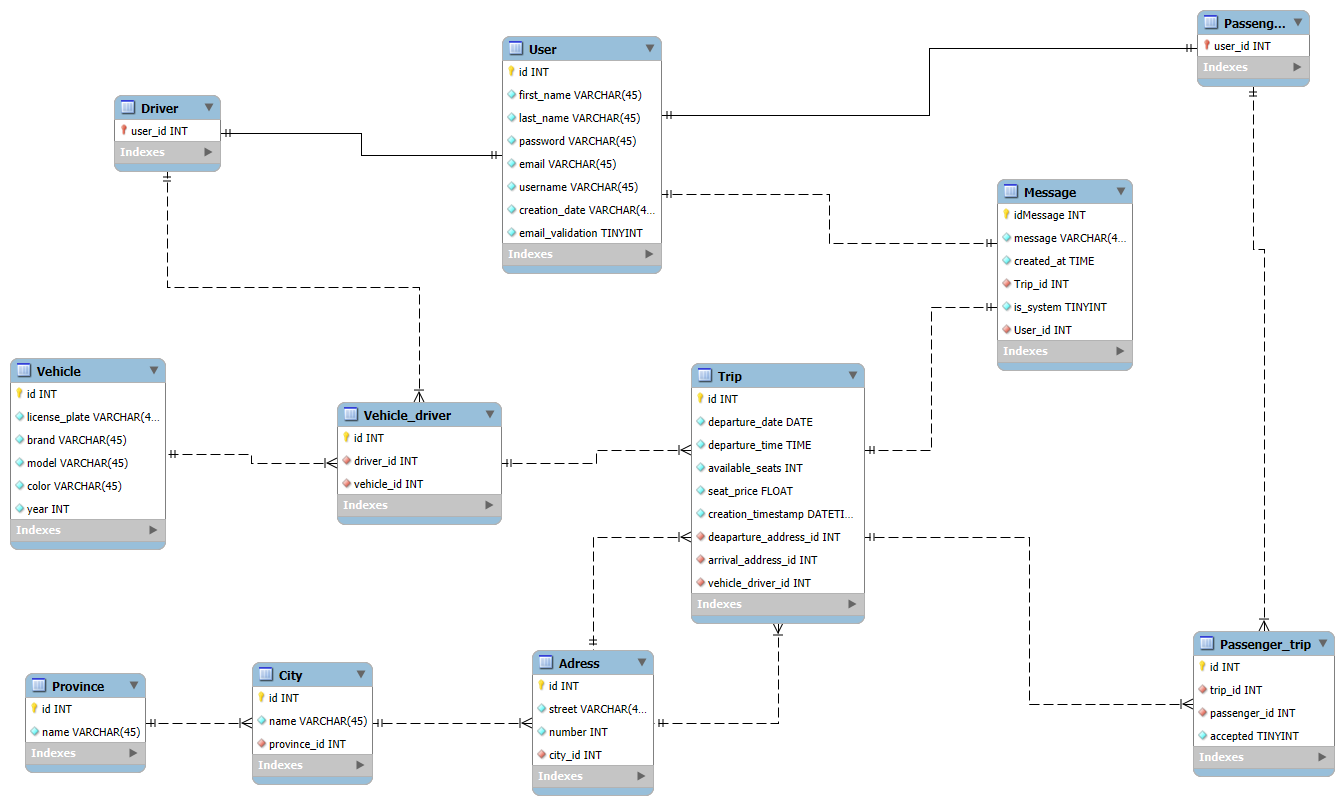
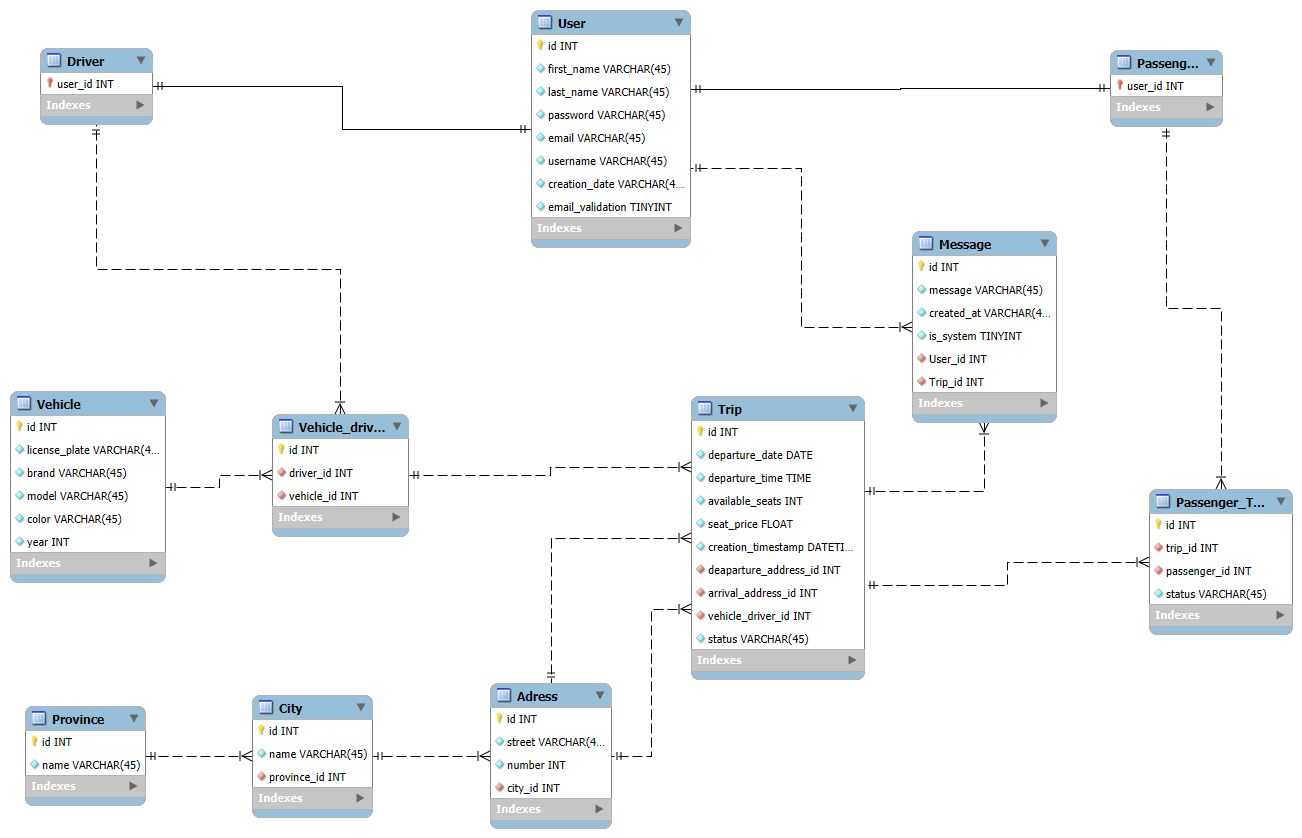
nuevo DER, get_trips funcional

diff --git a/server/models/passenger_trip.py b/server/models/passenger_trip.py
@@ -6,27 +6,27 @@ class passengerTrip(db.Model):
     __tablename__ = 'Passenger_Trip'
     
     id = db.Column(db.Integer, primary_key=True)
-    passenger_id = db.Column(db.Integer, db.ForeignKey('Passenger.user_id'), nullable=False)
     trip_id = db.Column(db.Integer, db.ForeignKey('Trip.id'), nullable=False)
-    accepted = db.Column(db.Boolean, default=False)
+    passenger_id = db.Column(db.Integer, db.ForeignKey('Passenger.user_id'), nullable=False)
+    status = db.Column(db.String(50), nullable=False, default="pending")
 
     passenger = db.relationship('Passenger', backref='passenger_trip')
     trip = db.relationship('Trip', backref='passenger_trip')
 
     def accept(self):
         self.accepted = "accepted"
+        self.trip.available_seats -= 1
 
     def reject(self):
-        self._status = "rejected"
+        self.status = "rejected"
 
     def cancel(self):
-        self._status = "cancelled"
-        self._trip._available_seats += 1
+        self.status = "cancelled"
 
     def to_dict(self):
         return {
             'id': self.id,
             'passenger': self.passenger.to_dict(),
-            'trip': self.trip.to_dict(),
-            'status': self.accepted
+            # 'trip': self.trip.to_dict(),
+            'status': self.status
         }

diff --git a/server/models/message.py b/server/models/message.py
@@ -5,17 +5,17 @@ class Message(db.Model):
     
     id = db.Column(db.Integer, primary_key=True)
     message = db.Column(db.String(1000), nullable=False)
-    created_at = db.Column(db.String(45), nullable=False) # diferente a los nombres del der
-    id_user = db.Column(db.Integer, db.ForeignKey('User.id'), default=None, nullable=True) 
-    id_trip = db.Column(db.Integer, nullable=False) 
+    created_at = db.Column(db.DateTime, nullable=False)
+    trip_id = db.Column(db.Integer, nullable=False) 
+    user_id = db.Column(db.Integer, db.ForeignKey('User.id'), default=None, nullable=True) 
     is_system = db.Column(db.Boolean, default=False, nullable=True)
 
     def to_dict(self):
         return {
             'id': self.id,
-            'id_user': self.id_user,
-            'id_trip': self.id_trip,
             'message': self.message,
-            'created_at': self.created_at,
+            'user_id': self.user_id,
+            'trip_id': self.trip_id,
+            'created_at': self.created_at.strftime('%Y-%m-%d %H:%M:%S'),
             'is_system': self.is_system,
         }

diff --git a/server/models/trip.py b/server/models/trip.py
@@ -22,11 +22,11 @@ class Trip(db.Model):
     def to_dict(self):
         return {
             'id': self.id,
-            'departure_date': self.departure_date,
-            'departure_time': self.departure_time,
+            'departure_date': self.departure_date.strftime('%Y-%m-%d'),
+            'departure_time': self.departure_time.strftime('%H:%M:%S'),
             'available_seats': self.available_seats,
             'seat_price': self.seat_price,
-            'creation_timestamp': self.creation_timestamp,
+            'creation_timestamp': self.creation_timestamp.strftime('%Y-%m-%d %H:%M:%S'),
             'departure_address': self.departure_address.to_dict() if self.departure_address else None,
             'arrival_address': self.arrival_address.to_dict() if self.arrival_address else None,
             'vehicle_driver': self.vehicle_driver.to_dict() if self.vehicle_driver else None,

diff --git a/server/routes/__init__.py b/server/routes/__init__.py
@@ -9,6 +9,7 @@ from server.routes.vehicle_routes import vehicle_bp
 from server.routes.passenger_routes import passenger_bp
 from server.routes.message_routes import message_bp
 from server.routes.vehicle_driver_routes import vehicle_driver_bp
+from server.routes.passenger_trip_routes import passenger_trip_bp
 
 
-__all__ = ['vehicle_driver_bp', 'user_bp', 'driver_bp', 'trip_join_bp', 'trip_bp', 'address_bp', 'auth_bp', 'role_selection','vehicle_bp', 'passenger_bp', 'message_bp']
+__all__ = ['passenger_trip_bp', 'vehicle_driver_bp', 'user_bp', 'driver_bp', 'trip_join_bp', 'trip_bp', 'address_bp', 'auth_bp', 'role_selection','vehicle_bp', 'passenger_bp', 'message_bp']

diff --git a/server/routes/passenger_trip_routes.py b/server/routes/passenger_trip_routes.py
@@ -1,0 +1,12 @@
+from datetime import datetime
+from flask import Blueprint, jsonify, request
+from server.db import db
+from server.models import passengerTrip
+
+passenger_trip_bp = Blueprint('passenger_trip_bp', __name__, url_prefix='/passenger_trips')
+
+@passenger_trip_bp.route('/', methods=['GET'])
+def get_passenger_trips():
+    passenger_trips = passengerTrip.query.all()
+    result = [passenger_trip.to_dict() for passenger_trip in passenger_trips]
+    return jsonify(result)

diff --git a/app.py b/app.py
@@ -18,6 +18,7 @@ app.register_blueprint(role_selection)
 app.register_blueprint(vehicle_bp)
 app.register_blueprint(message_bp)
 app.register_blueprint(vehicle_driver_bp)
+app.register_blueprint(passenger_trip_bp)
 
 if __name__ == '__main__':
     app.run(debug=True)
